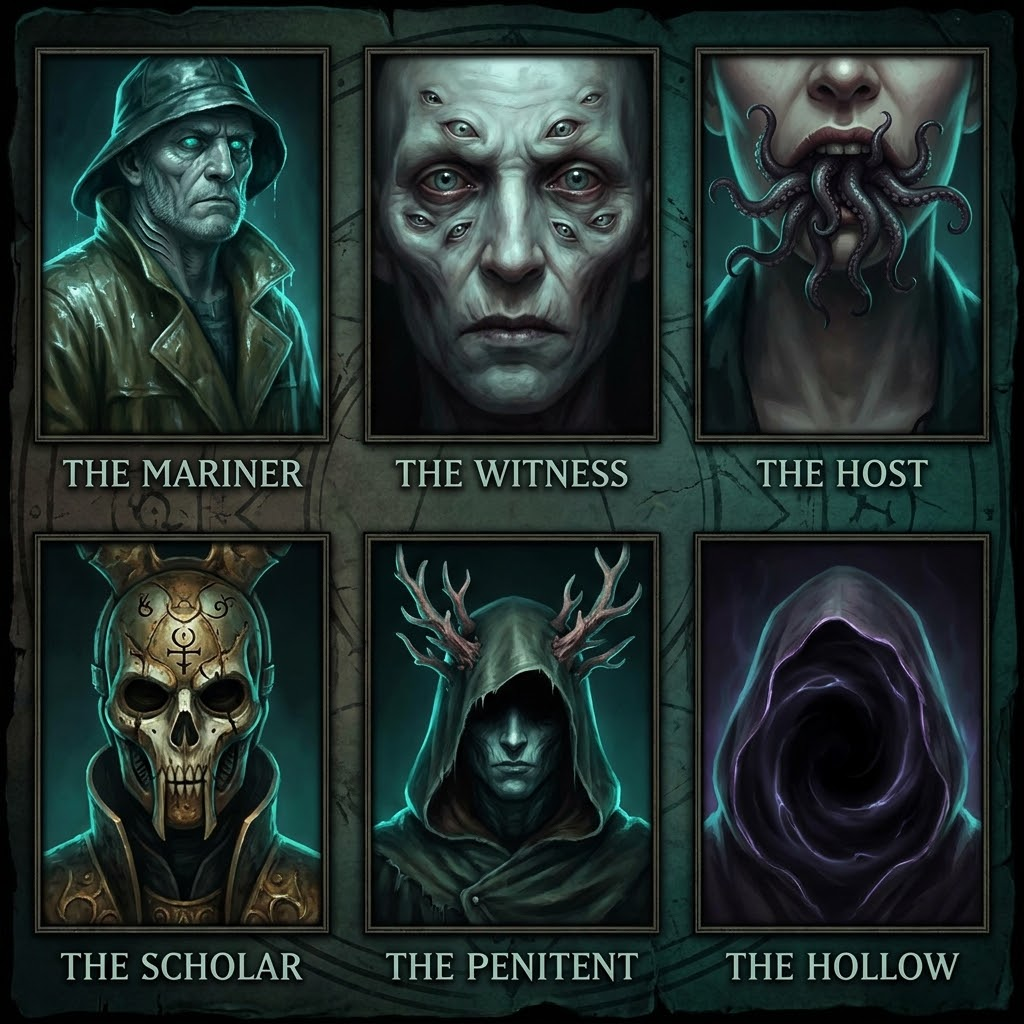
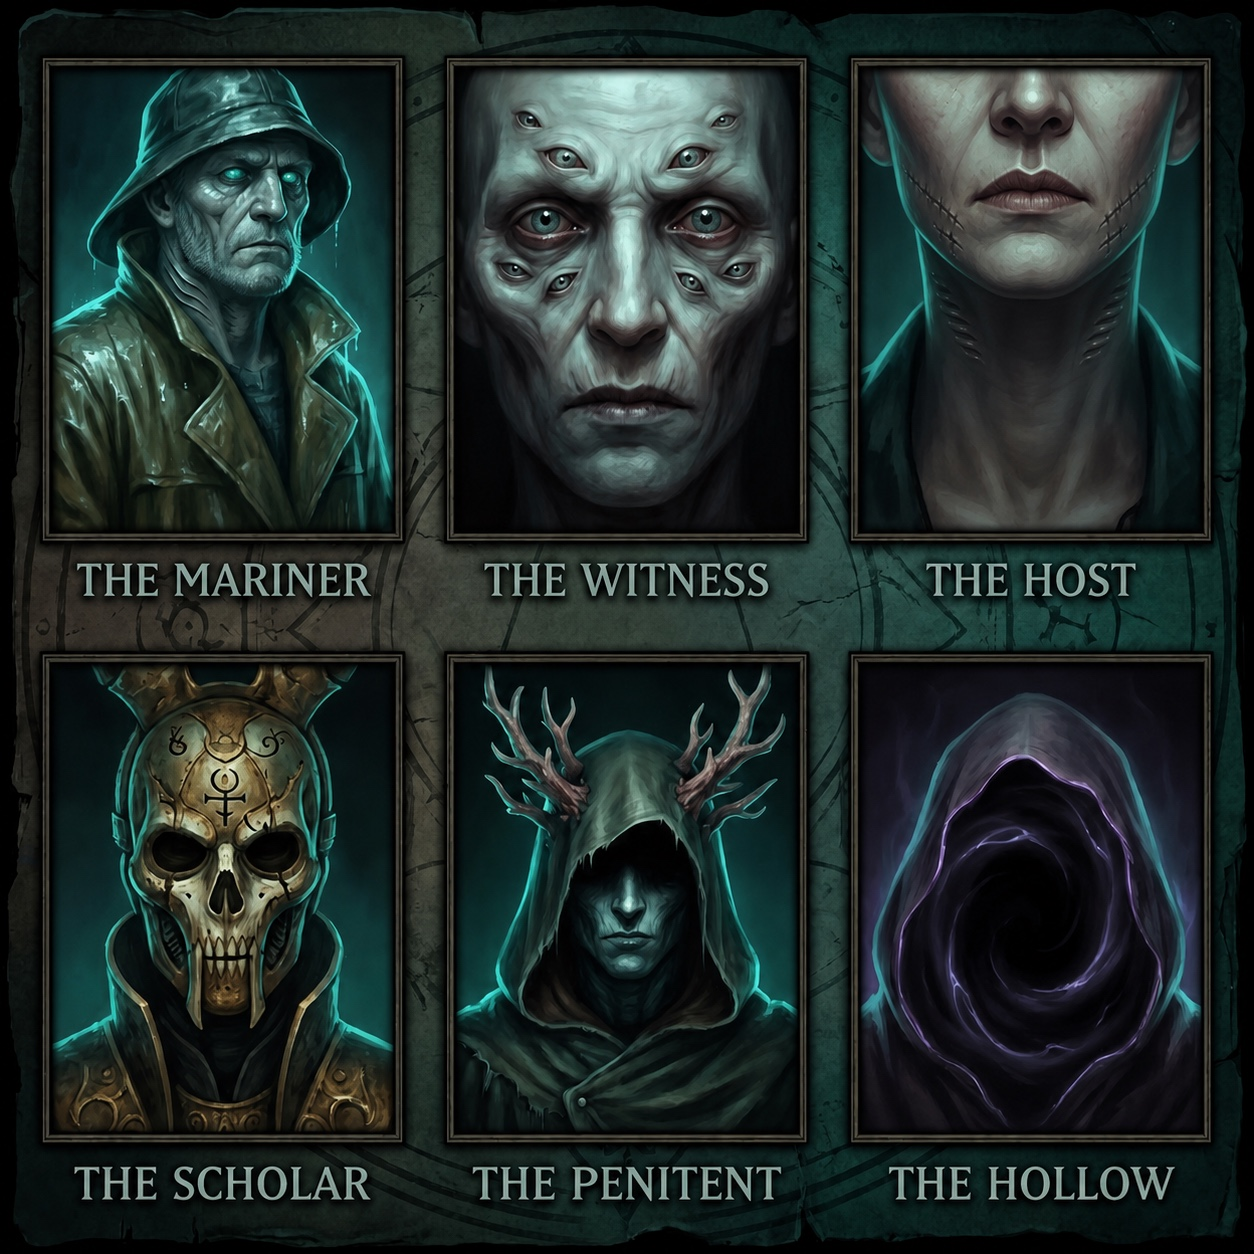
Remove tentacles from game visuals

diff --git a/public/game.js b/public/game.js
@@ -486,110 +486,6 @@ for (let i = 0; i < 12; i += 1) {
   table.add(runeLine);
 }
 
-const tableTentacles = new THREE.Group();
-const tentacleCanvas = document.createElement("canvas");
-tentacleCanvas.width = 384;
-tentacleCanvas.height = 96;
-const tentacleContext = tentacleCanvas.getContext("2d");
-tentacleContext.fillStyle = "#173a32";
-tentacleContext.fillRect(0, 0, tentacleCanvas.width, tentacleCanvas.height);
-for (let i = 0; i < 90; i += 1) {
-  tentacleContext.strokeStyle = i % 3 ? "rgba(7,25,21,.28)" : "rgba(91,130,111,.16)";
-  tentacleContext.lineWidth = .6 + Math.random() * 2.4;
-  tentacleContext.beginPath();
-  const startY = Math.random() * tentacleCanvas.height;
-  tentacleContext.moveTo(0, startY);
-  for (let x = 0; x <= tentacleCanvas.width; x += 24) tentacleContext.lineTo(x, startY + Math.sin(x * .035 + i) * (3 + Math.random() * 5));
-  tentacleContext.stroke();
-}
-const tentacleTexture = new THREE.CanvasTexture(tentacleCanvas);
-tentacleTexture.colorSpace = THREE.SRGBColorSpace;
-tentacleTexture.wrapS = tentacleTexture.wrapT = THREE.RepeatWrapping;
-tentacleTexture.repeat.set(3.4, 1);
-const tentacleSkin = new THREE.MeshPhysicalMaterial({ color: 0x244f44, map: tentacleTexture, emissive: 0x071a16, emissiveIntensity: .42, roughness: .72, metalness: .02, clearcoat: .32, clearcoatRoughness: .48 });
-const suckerSkin = new THREE.MeshPhysicalMaterial({ color: 0x704842, emissive: 0x210d0b, emissiveIntensity: .4, roughness: .64, clearcoat: .18 });
-
-function makeTaperedTentacleGeometry(curve, segments, baseRadius, radialSegments = 10) {
-  const frames = curve.computeFrenetFrames(segments, false);
-  const positions = [];
-  const uvs = [];
-  const indices = [];
-  const point = new THREE.Vector3();
-  const offset = new THREE.Vector3();
-  for (let segment = 0; segment <= segments; segment += 1) {
-    const progress = segment / segments;
-    curve.getPointAt(progress, point);
-    const taper = .14 + .86 * Math.pow(1 - progress, .68);
-    const organicPulse = 1 + Math.sin(progress * Math.PI * 9) * .055;
-    const radius = baseRadius * taper * organicPulse;
-    for (let side = 0; side < radialSegments; side += 1) {
-      const angle = side / radialSegments * Math.PI * 2;
-      offset.copy(frames.normals[segment]).multiplyScalar(Math.cos(angle));
-      offset.addScaledVector(frames.binormals[segment], Math.sin(angle));
-      offset.multiplyScalar(radius).add(point);
-      positions.push(offset.x, offset.y, offset.z);
-      uvs.push(progress * 3.4, side / radialSegments);
-    }
-  }
-  for (let segment = 0; segment < segments; segment += 1) {
-    for (let side = 0; side < radialSegments; side += 1) {
-      const nextSide = (side + 1) % radialSegments;
-      const a = segment * radialSegments + side;
-      const b = (segment + 1) * radialSegments + side;
-      const c = (segment + 1) * radialSegments + nextSide;
-      const d = segment * radialSegments + nextSide;
-      indices.push(a, b, d, b, c, d);
-    }
-  }
-  const geometry = new THREE.BufferGeometry();
-  geometry.setAttribute("position", new THREE.Float32BufferAttribute(positions, 3));
-  geometry.setAttribute("uv", new THREE.Float32BufferAttribute(uvs, 2));
-  geometry.setIndex(indices);
-  geometry.computeVertexNormals();
-  geometry.computeBoundingSphere();
-  return geometry;
-}
-
-for (let i = 0; i < 7; i += 1) {
-  const angle = i / 7 * Math.PI * 2 + .28;
-  const curl = i % 2 ? .7 : -.7;
-  const curve = new THREE.CatmullRomCurve3([
-    new THREE.Vector3(Math.cos(angle) * 5.35, -.58, Math.sin(angle) * 5.35),
-    new THREE.Vector3(Math.cos(angle + curl * .2) * 3.9, -.51 + (i % 3) * .035, Math.sin(angle + curl * .2) * 3.9),
-    new THREE.Vector3(Math.cos(angle + curl * .72) * 2.35, -.48, Math.sin(angle + curl * .72) * 2.35),
-    new THREE.Vector3(Math.cos(angle + curl * 1.55) * .92, -.43, Math.sin(angle + curl * 1.55) * .92)
-  ]);
-  const strand = new THREE.Group();
-  const tube = new THREE.Mesh(makeTaperedTentacleGeometry(curve, 40, .21 + (i % 3) * .025), tentacleSkin);
-  tube.castShadow = tube.receiveShadow = true;
-  strand.add(tube);
-  for (const progress of [.16, .34, .54, .72, .87]) {
-    const joint = new THREE.Mesh(new THREE.SphereGeometry(.15 * (1.18 - progress * .42), 12, 9), tentacleSkin);
-    joint.position.copy(curve.getPoint(progress));
-    joint.scale.set(1.12, .72, 1.08);
-    strand.add(joint);
-  }
-  for (let cup = 4; cup < 36; cup += 5) {
-    const point = curve.getPoint(cup / 40);
-    const sucker = new THREE.Mesh(new THREE.TorusGeometry(.065, .023, 6, 12), suckerSkin);
-    sucker.position.copy(point);
-    sucker.position.y -= .095;
-    sucker.rotation.x = Math.PI / 2;
-    sucker.scale.setScalar(1 - cup / 70);
-    strand.add(sucker);
-  }
-  const tipDirection = curve.getTangent(1).normalize();
-  const tip = new THREE.Mesh(new THREE.ConeGeometry(.11, .68, 12), tentacleSkin);
-  tip.quaternion.setFromUnitVectors(new THREE.Vector3(0, 1, 0), tipDirection);
-  tip.position.copy(curve.getPoint(1)).addScaledVector(tipDirection, .29);
-  tip.castShadow = true;
-  strand.add(tip);
-  strand.userData.phase = i * 1.41;
-  tableTentacles.add(strand);
-}
-tableTentacles.position.y = .02;
-scene.add(tableTentacles);
-
 function makeMistTexture() {
   const canvas = document.createElement("canvas");
   canvas.width = canvas.height = 256;
@@ -882,12 +778,12 @@ function makeNameSprite(name, color = "#d7ff3f") {
 
 const seats = [];
 const characterProfiles = [
-  { id: "mariner", coat: 0x7f302b, shirt: 0x211a17, skin: 0xa96f55, hair: 0x1a110e, accent: 0xd7ff3f, eldritch: 0x3d6657, head: [1, 1.08, .94], hat: "flat", mutation: "tentacles" },
+  { id: "mariner", coat: 0x7f302b, shirt: 0x211a17, skin: 0xa96f55, hair: 0x1a110e, accent: 0xd7ff3f, eldritch: 0x3d6657, head: [1, 1.08, .94], hat: "flat", mutation: "gills" },
   { id: "witness", coat: 0x28556b, shirt: 0xb8b39f, skin: 0x704738, hair: 0x0e0c0b, accent: 0x79c8ef, eldritch: 0x3f7773, head: [.92, 1.02, 1], hat: "glasses", mutation: "gills" },
   { id: "host", coat: 0x4e6030, shirt: 0x29241d, skin: 0xbd8569, hair: 0x2b1d16, accent: 0xc6df5a, eldritch: 0x58653a, head: [1.05, .98, .92], hat: "beanie", mutation: "thirdEye" },
   { id: "scholar", coat: 0x603760, shirt: 0x211921, skin: 0x845a49, hair: 0x170f17, accent: 0xd88adc, eldritch: 0x614064, head: [.9, 1.12, .92], hat: "patch", mutation: "horns" },
   { id: "penitent", coat: 0x755224, shirt: 0x2d271e, skin: 0xb9795a, hair: 0x352015, accent: 0xe1a94b, eldritch: 0x6a5635, head: [1.08, 1, .96], hat: "band", mutation: "spines" },
-  { id: "hollow", coat: 0x285d53, shirt: 0x192c28, skin: 0x604238, hair: 0x0f1816, accent: 0x68d8c0, eldritch: 0x335f55, head: [.95, 1.06, .94], hat: "hood", mutation: "tentacles" }
+  { id: "hollow", coat: 0x285d53, shirt: 0x192c28, skin: 0x604238, hair: 0x0f1816, accent: 0x68d8c0, eldritch: 0x335f55, head: [.95, 1.06, .94], hat: "hood", mutation: "thirdEye" }
 ];
 const characterProfileById = new Map(characterProfiles.map((profile, index) => [profile.id, { ...profile, index }]));
 const organicCanvas = document.createElement("canvas");
@@ -967,41 +863,6 @@ function makeCharacter(characterId) {
   }
   if (profile.index % 2) {
     mesh(new THREE.BoxGeometry(.012, .27, .018), accentMaterial, headRig, [-.19, 1.68, -.485], [0,0,-.32]);
-  }
-
-  const addTentacle = (side, row, reach = 1) => {
-    const startX = side * (.07 + row * .035);
-    const curve = new THREE.CatmullRomCurve3([
-      new THREE.Vector3(startX, 1.5 - row * .035, -.48),
-      new THREE.Vector3(side * (.15 + row * .04), 1.34 - row * .08, -.58),
-      new THREE.Vector3(side * (.28 + row * .06) * reach, 1.13 - row * .09, -.48),
-      new THREE.Vector3(side * (.2 + row * .08) * reach, .98 - row * .08, -.3)
-    ]);
-    const tentacle = new THREE.Mesh(new THREE.TubeGeometry(curve, 14, .038 - row * .004, 8, false), eldritchMaterial);
-    tentacle.castShadow = true;
-    headRig.add(tentacle);
-  };
-
-  if (profile.mutation === "tentacles") {
-    for (const side of [-1, 1]) for (let row = 0; row < 3; row += 1) addTentacle(side, row, 1 + profile.index * .025);
-    mesh(new THREE.SphereGeometry(.16, 16, 10), eldritchMaterial, headRig, [0, 1.43, -.5], [0,0,0], [1.1,.55,.45]);
-  } else {
-    for (const side of [-1, 1]) {
-      addTentacle(side, 0, .86);
-      addTentacle(side, 1, .72);
-    }
-  }
-
-  for (const side of [-1, 1]) {
-    const shoulderCurve = new THREE.CatmullRomCurve3([
-      new THREE.Vector3(side * .42, 1.02, .08),
-      new THREE.Vector3(side * .76, 1.22, .02),
-      new THREE.Vector3(side * .88, 1.55, -.12),
-      new THREE.Vector3(side * .69, 1.78, -.32)
-    ]);
-    const shoulderTendril = new THREE.Mesh(new THREE.TubeGeometry(shoulderCurve, 16, .045, 8, false), eldritchMaterial);
-    shoulderTendril.castShadow = true;
-    body.add(shoulderTendril);
   }
 
   if (profile.mutation === "gills") {
@@ -1431,12 +1292,6 @@ function frame() {
     tray.userData.props.children.forEach((prop, index) => { prop.rotation.y += .002 * (index % 2 ? 1 : -1); });
   });
   dust.rotation.y = time * .008;
-  tableTentacles.children.forEach((strand) => {
-    const pulse = Math.sin(time * .58 + strand.userData.phase);
-    strand.position.y = pulse * .022;
-    strand.rotation.y = pulse * .0045;
-    strand.scale.y = 1 + pulse * .012;
-  });
   mist.children.forEach((cloud) => {
     const drift = time * .075 + cloud.userData.phase;
     cloud.position.x = cloud.userData.origin.x + Math.sin(drift) * .72;

diff --git a/public/styles.css b/public/styles.css
@@ -95,7 +95,7 @@ main { position: relative; z-index: 2; min-height: 100svh; }
   overflow: hidden;
   background: #02090a;
 }
-.home-atmosphere { position: absolute; z-index: -2; inset: -30px; overflow: hidden; background: #02090a url("/lovecraft-table.jpg") center 43% / cover no-repeat; transform: translate3d(var(--parallax-x), var(--parallax-y), 0) scale(1.045); transition: transform .22s ease-out; }
+.home-atmosphere { position: absolute; z-index: -2; inset: -30px; overflow: hidden; background: #02090a url("/lovecraft-table.jpg?v=20260813-occult-table-v2") center 43% / cover no-repeat; transform: translate3d(var(--parallax-x), var(--parallax-y), 0) scale(1.045); transition: transform .22s ease-out; }
 .home-atmosphere::before { content: ""; position: absolute; inset: 0; background: linear-gradient(90deg, rgba(1,8,9,.96) 0%, rgba(1,8,9,.68) 31%, rgba(2,10,11,.12) 55%, rgba(1,7,8,.68) 100%), linear-gradient(180deg, rgba(0,5,6,.32), transparent 34%, rgba(0,5,6,.24) 62%, #020708 100%); }
 .home-atmosphere::after { content: ""; position: absolute; inset: -25%; opacity: .42; background: radial-gradient(ellipse at 52% 42%, transparent 0 24%, rgba(17,101,96,.18) 46%, transparent 65%), repeating-radial-gradient(ellipse at center, transparent 0 55px, rgba(89,180,163,.045) 56px 57px); animation: abyss-breathe 9s ease-in-out infinite; }
 .abyss-glow { position: absolute; left: 39%; top: 22%; width: 38vw; height: 38vw; border-radius: 50%; background: radial-gradient(circle, rgba(71,193,171,.13), transparent 67%); mix-blend-mode: screen; animation: glow-pulse 5s ease-in-out infinite; }
@@ -170,7 +170,7 @@ input:focus { border-color: var(--acid); box-shadow: 0 0 0 1px var(--acid); }
 .character-card:focus-visible { outline: 2px solid var(--acid); outline-offset: 2px; }
 .character-card.selected { border-color: var(--acid); background: linear-gradient(135deg, rgba(42,67,40,.68), rgba(3,16,17,.96)); box-shadow: inset 0 0 25px rgba(215,255,63,.08), 0 0 17px rgba(215,255,63,.12); }
 .character-card.selected::before { background: var(--acid); }
-.portrait { position: relative; grid-row: 1 / 3; width: 58px; height: 92px; border: 1px solid rgba(166,138,86,.48); background-image: url("/lovecraft-characters.jpg"); background-repeat: no-repeat; background-size: 300% 200%; filter: saturate(.72) brightness(.72) contrast(1.08); transition: filter .22s, transform .22s; }
+.portrait { position: relative; grid-row: 1 / 3; width: 58px; height: 92px; border: 1px solid rgba(166,138,86,.48); background-image: url("/lovecraft-characters.jpg?v=20260813-portraits-v2"); background-repeat: no-repeat; background-size: 300% 200%; filter: saturate(.72) brightness(.72) contrast(1.08); transition: filter .22s, transform .22s; }
 .character-card:hover .portrait, .character-card.selected .portrait { filter: saturate(1) brightness(1) contrast(1.07); }
 .character-card:hover .portrait { transform: scale(1.025); }
 .portrait::after { content: ""; position: absolute; inset: 0; background: linear-gradient(180deg, transparent 55%, rgba(0,5,6,.72)); }

diff --git a/public/index.html b/public/index.html
@@ -19,7 +19,7 @@
     <link rel="preconnect" href="https://fonts.googleapis.com" />
     <link rel="preconnect" href="https://fonts.gstatic.com" crossorigin />
     <link href="https://fonts.googleapis.com/css2?family=Archivo+Black&family=DM+Mono:wght@400;500&family=Manrope:wght@400;600;700;800&display=swap" rel="stylesheet" />
-    <link rel="stylesheet" href="/styles.css?v=20260813-finished-v2" />
+    <link rel="stylesheet" href="/styles.css?v=20260813-finished-v4" />
   </head>
   <body>
     <canvas id="scene" aria-hidden="true"></canvas>
@@ -171,6 +171,6 @@
     </dialog>
 
     <script src="/socket.io/socket.io.js"></script>
-    <script type="module" src="/game.js?v=20260813-finished-v10"></script>
+    <script type="module" src="/game.js?v=20260813-finished-v11"></script>
   </body>
 </html>

diff --git a/README.md b/README.md
@@ -2,7 +2,7 @@
 
 Arkadaşlarınla tarayıcıdan oynayabileceğin, 2–6 kişilik gerçek zamanlı 3B Lovecraftian masa gerilim oyunu. Mekanik olarak şans, hedef seçimi, karakter pasifleri ve ekipman kullanımını birleştirir; bütün kodlar, 3B modeller ve görsel kimlik bu proje için özgün hazırlanmıştır.
 
-Her oyuncu seçtiği kimliğe ait farklı yüz, beden, kıyafet, mutasyon ve pasifle temsil edilir. Bu seçim sunucuda saklanır, bütün oyunculara yayınlanır ve yeniden bağlantıda korunur. Sisli 3B masa, hareketli tentacle’lar, okült mühürler, fiziksel eşya tepsileri ve ayrıntılı pompalı oyun durumuna tepki verir. Pompalı sıradaki oyuncuya ve seçilen hedefe döner; karakterler nefes alma, sıra, ateş ve darbe tepkileri verir.
+Her oyuncu seçtiği kimliğe ait farklı yüz, beden, kıyafet, mutasyon ve pasifle temsil edilir. Bu seçim sunucuda saklanır, bütün oyunculara yayınlanır ve yeniden bağlantıda korunur. Sisli 3B masa, okült mühürler, fiziksel eşya tepsileri ve ayrıntılı pompalı oyun durumuna tepki verir. Pompalı sıradaki oyuncuya ve seçilen hedefe döner; karakterler nefes alma, sıra, ateş ve darbe tepkileri verir.
 
 ## Oyuncular nasıl katılır?
 

diff --git a/BetSolution/Docs/UX/ui-ux-regression-checklist.md b/BetSolution/Docs/UX/ui-ux-regression-checklist.md
@@ -8,7 +8,7 @@ Bu kontrol listesi, görsel veya etkileşimli bir değişiklikten sonra masaüst
 - [x] Karakter kartları tıklama, odak ve yön tuşlarıyla seçilebilir; `aria-checked` seçimi izler.
 - [x] Oda oluşturma ve katılma akışı iki ayrı istemcide tamamlanır.
 - [x] Seçilen karakterin adı, can sınırı ve pasifi her iki istemciye aynı gelir.
-- [x] 3B karakterler, masa, pompalı, sis, tentacle’lar ve eşya tepsileri WebGL hatası olmadan çizilir.
+- [x] 3B karakterler, masa, pompalı, sis, okült mühürler ve eşya tepsileri WebGL hatası olmadan çizilir.
 - [x] Sıra ve hedef değiştiğinde pompalı doğru koltuğa döner.
 - [x] 390 × 844 mobil görünümde sayfa yatay taşmaz; HUD ve oyuncu listesi kullanılabilir kalır.
 - [x] Adrenalin, rakipte ekipman yokken tüketilmez ve arayüz kilitlenmez.
